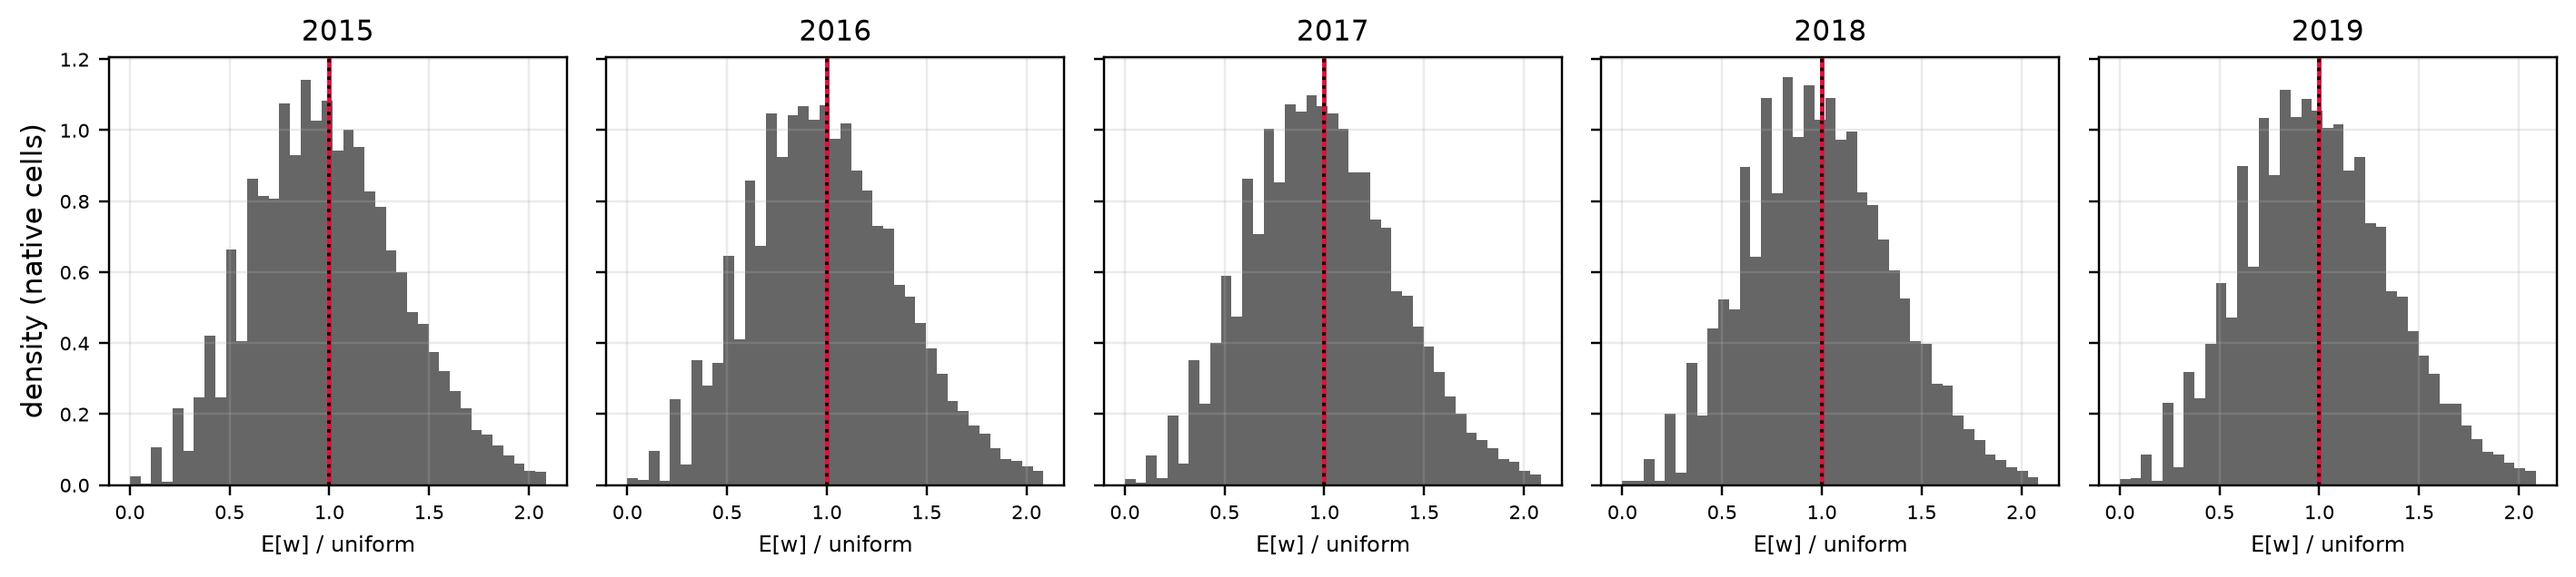
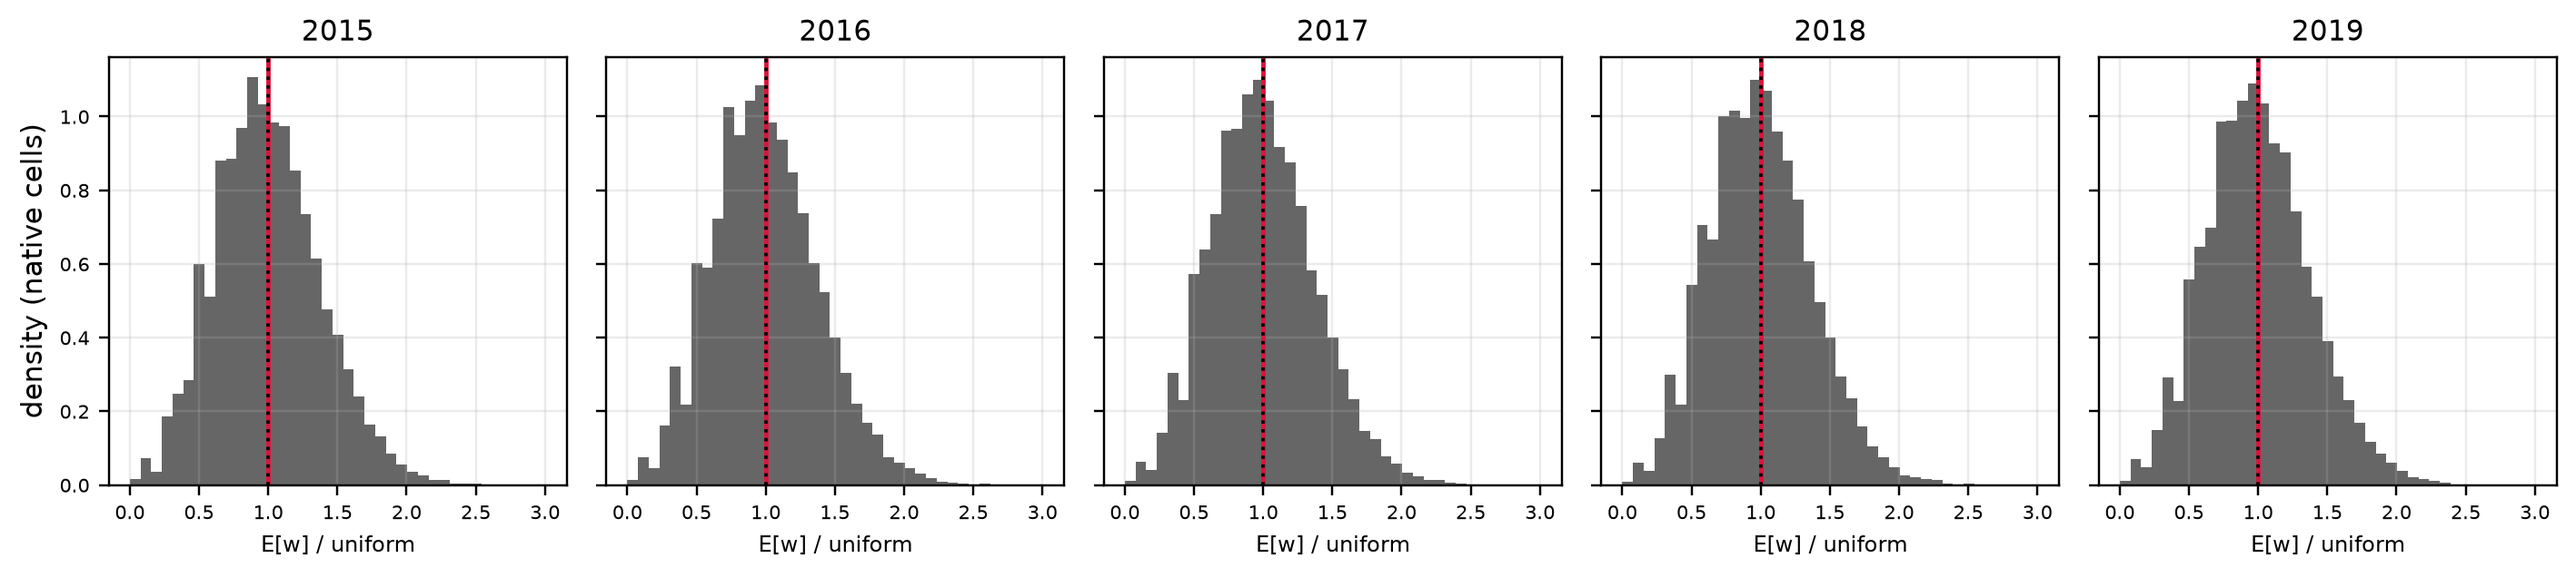
code: hist range all values for weight

diff --git a/code/osse/mean_mc.py b/code/osse/mean_mc.py
@@ -755,8 +755,8 @@ def truth_table(boxes=("boxB", "boxA")):
         t = pd.read_csv(os.path.join(cfg.OUT_DIR, f"domain_means_{b}.csv"))
         t = pd.DataFrame({"year": t["year"],
                           f"Zbar {b}": t["zbar"] * J_TO_GJ,
-                          f"sd_P(Z) {b}": t["sd_Z"] * J_TO_GJ,
-                          f"Zbar/sd {b}": t["zbar"] / t["sd_Z"]})
+                          f"sd_k {b}": t["sd_Z"] * J_TO_GJ,
+                          f"Zbar/sd_k {b}": t["zbar"] / t["sd_Z"]})
         out = t if out is None else out.merge(t, on="year")
     return out
 
@@ -2031,6 +2031,7 @@ def continuous_bias_table(est, box, ref=None):
                      "5%": np.percentile(b, 5) * J_TO_GJ,
                      "95%": np.percentile(b, 95) * J_TO_GJ,
                      "P(B < 0)": float((b < 0).mean()),
+                     "sd_k": sd[int(k)] * J_TO_GJ,
                      "mean B / sd_k": b.mean() / sd[int(k)],
                      "uniform mean B": um * J_TO_GJ})
     return pd.DataFrame(rows)
@@ -2752,7 +2753,7 @@ def plot_sampling_weight_hist(box, tag="_pilot", years=None, figsize=None):
     import matplotlib.pyplot as plt
     ratio = sampling_weight_ratio(box, tag)
     years = years or sorted(ratio)
-    hi = np.percentile(np.concatenate([ratio[y] for y in years]), 99.5)
+    hi = np.max(np.concatenate([ratio[y] for y in years]))
     bins = np.linspace(0, hi, 40)
     fig, axes = plt.subplots(1, len(years), figsize=figsize or (2.4 * len(years) + 1.0, 3.0),
                              sharex=True, sharey=True)
